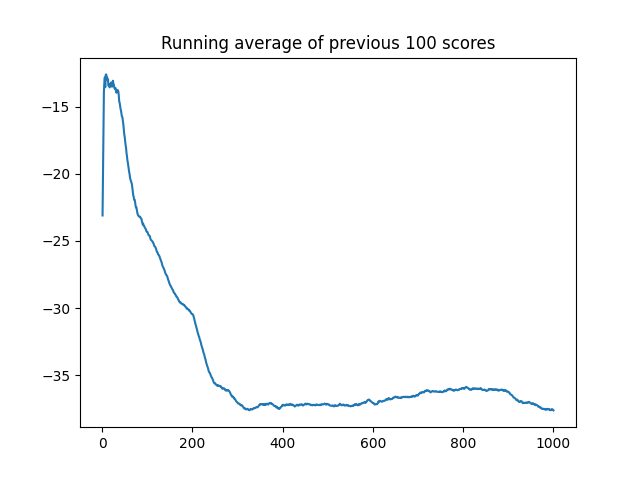
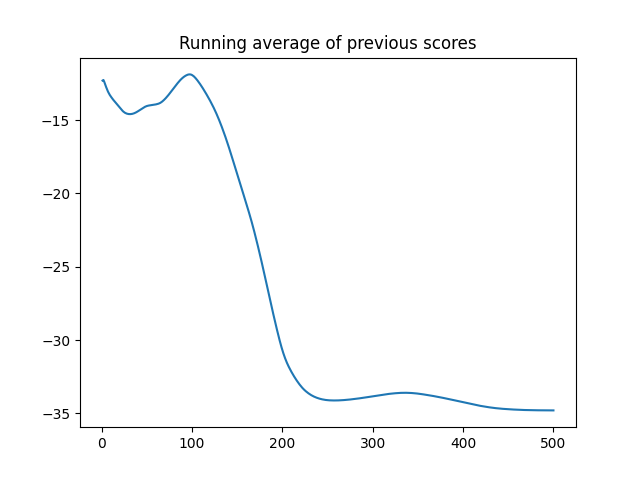
Avances y cambios en funcionamiento y rewards

diff --git a/main.py b/main.py
@@ -1,7 +1,7 @@
 import time
 import gymnasium as gym
 import numpy as np
-from utils import plot_learning_curve,transformObservation
+from utils import euclidDistanceNegative, plot_learning_curve,transformObservation
 from Actor import Actor
 
 def main():
@@ -10,12 +10,13 @@ def main():
     n_actions = env.action_space.shape[0]
 
     # Creación del agente con el entorno y el número de acciones adecuados
-    obs_array=env.observation_space['observation'].sample()
-    numpyArray= np.concatenate((obs_array[0:3],env.observation_space['desired_goal'].sample()),axis=None)
+    obs_array=env.observation_space.sample()
+    numpyArray= transformObservation(obs_array)
  
     # Convert list to an array
-    agent = Actor(input_dims=numpyArray.shape, environment=env, n_actions=n_actions) 
-    n_games = 1000  # Número de episodios a jugar
+    agent = Actor(input_dims=numpyArray.shape, environment=env, n_actions=n_actions, alpha= 0.00001, beta= 0.00002, noise= 0.01) 
+    n_games = 500  # Número de episodios a jugar
+    max_iter = 50
 
     # Archivo para guardar la gráfica de rendimiento
     figure_file = 'FetchReachPlot.png'
@@ -28,11 +29,9 @@ def main():
     if load_checkpoint:
         n_steps = 0
         while n_steps <= agent.batch_len:
-            env.render()
             observation = env.reset()
             action = env.action_space.sample()
-            observation = np.concatenate((env.observation_space['observation'].sample(),
-                                          env.observation_space['desired_goal'].sample()),axis=None)
+            # observation = np.concatenate((env.observation_space['observation'].sample(), env.observation_space['desired_goal'].sample()),axis=None)
             observation_, reward, done, info, _ = env.step(action)
             agent.remember(observation, action, reward, observation_, done)
             n_steps += 1
@@ -43,7 +42,8 @@ def main():
         evaluate = False
 
    
-    
+    goal = [0,0,0]
+    goal_set = False
     # Ciclo principal
     for i in range(n_games):
 
@@ -52,11 +52,19 @@ def main():
         done = False
         score = 0
         j=0
-        while not done and j<50:
+        while not done and j<max_iter:
             action = agent.choose_action(observation, evaluate)  # Elegir una acción
             observation_, reward, done, info, _ = env.step(action)  # Realizar la acción en el entorno
+            if goal_set == False:
+                goal = observation_["desired_goal"]
+                goal_set = True
             observation_= transformObservation(observation_)
+
+            reward = euclidDistanceNegative(observation, goal)
             
+            if j < 25 and j > 22: 
+                print(reward)
+
             score += reward  # Actualizar la puntuación acumulada
             agent.remember(observation, action, reward, observation_[0], done)  # Almacenar la transición
             if not load_checkpoint:
@@ -83,6 +91,7 @@ def main():
     if not load_checkpoint:
         x = [i + 1 for i in range(n_games)]
         plot_learning_curve(x, score_history, figure_file)
+        plot_learning_curve(x, score_history, figure_file , n_games)
     
     env.close()
     

diff --git a/Actor.py b/Actor.py
@@ -10,7 +10,7 @@ from CriticNetwork import CriticNetwork
 
 class Actor:
     """El Actor DDPG, que incluye una red crítica y una red de actor, generalizado para su uso en cualquier entorno sabiendo los parámetros de entrada (Sensores en REAS) y número de acciones a tomar"""
-    def __init__(self, input_dims, alpha=0.001, beta=0.002, environment=None, gamma=0.99, n_actions=2, max_size=1000000, tau=0.005, fc1=400, fc2=300, batch_size=64, noise=0.01):
+    def __init__(self, input_dims, alpha=0.001, beta=0.002, environment=None, gamma=0.99, n_actions=2, max_size=1000000, tau=0.005, fc_dims= 50, batch_size=64, noise=0.01):
         """Utiliza alpha y beta para los porcentajes de aprendizaje de las redes, y gamma para cambiar el objetivo de la red crítica, así como tau se utiliza para controlar la tasa a la que se actualizan los pesos de la red objetivo.
         Los fc's sirven para el número de neuronas de las redes. n_actions es la cantidad de acciones finales a elegir."""
         
@@ -32,7 +32,6 @@ class Actor:
         self.beta= beta
 
         #fc_dims= float(round((input_dims[0]+n_actions)*0.6)) # numero de neuronas escondidas en cada capa
-        fc_dims= 50
         
         self.actor_net = ActorNetwork(n_actions=self.n_actions, name='actor',fc1_dims=fc_dims,fc2_dims=fc_dims)
         self.target_actor_net = ActorNetwork(n_actions=self.n_actions, name='target_actor',fc1_dims=fc_dims,fc2_dims=fc_dims)

diff --git a/utils.py b/utils.py
@@ -1,5 +1,6 @@
 import numpy as np
 import matplotlib.pyplot as plt
+from scipy.spatial import distance
 
 def plot_learning_curve(x, scores, figure_file, number=100):
     running_avg = np.zeros(len(scores))
@@ -11,5 +12,10 @@ def plot_learning_curve(x, scores, figure_file, number=100):
 
 
 def transformObservation(obs):
-    observation = np.concatenate((obs['observation'][0:3],obs['desired_goal']),axis=None)
+    observation = np.concatenate((obs['observation'][0:3]),axis=None)
     return observation
+
+def euclidDistanceNegative(observation, goal):
+    a = (observation[0], observation[1], observation[2])
+    b = (goal[0], goal[1], goal[2])
+    return -distance.euclidean(a, b) 
